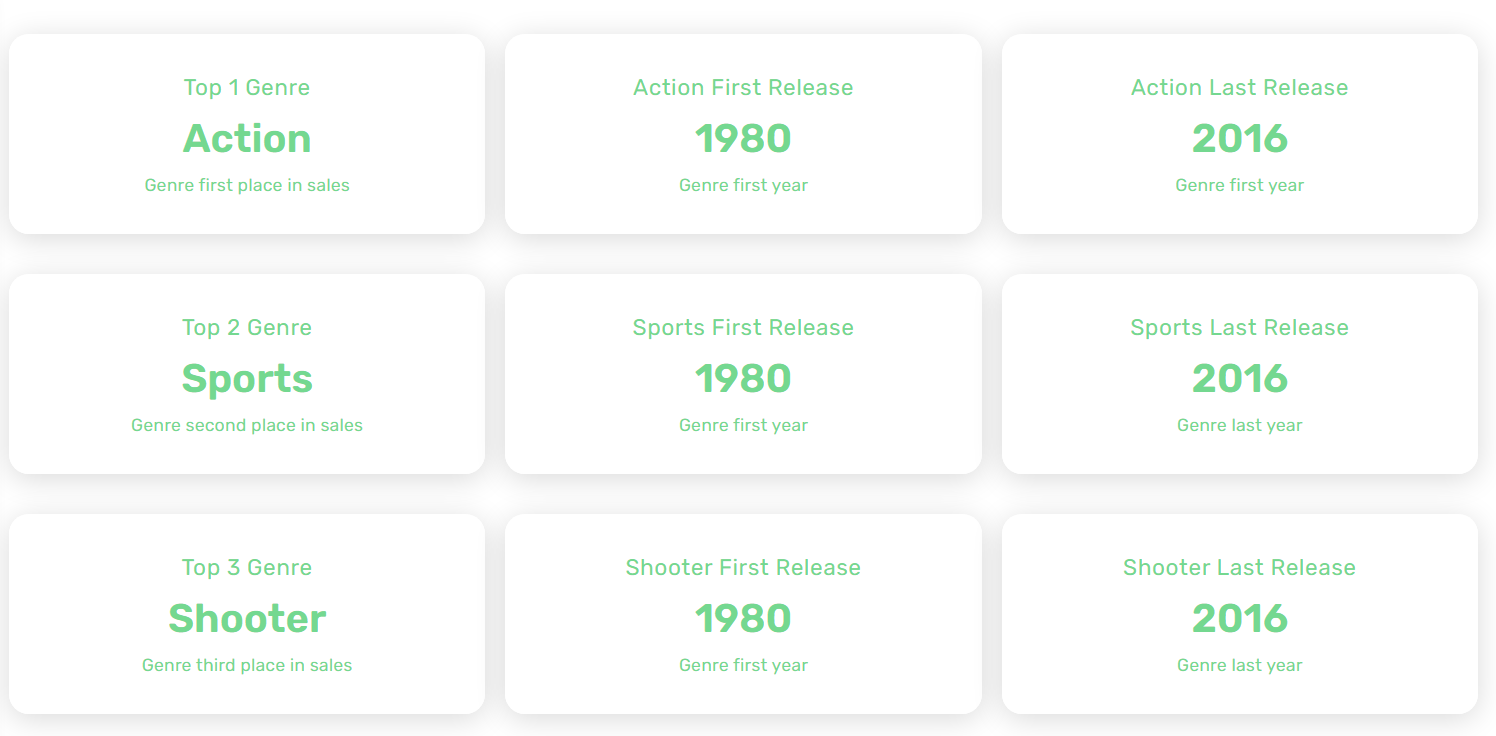
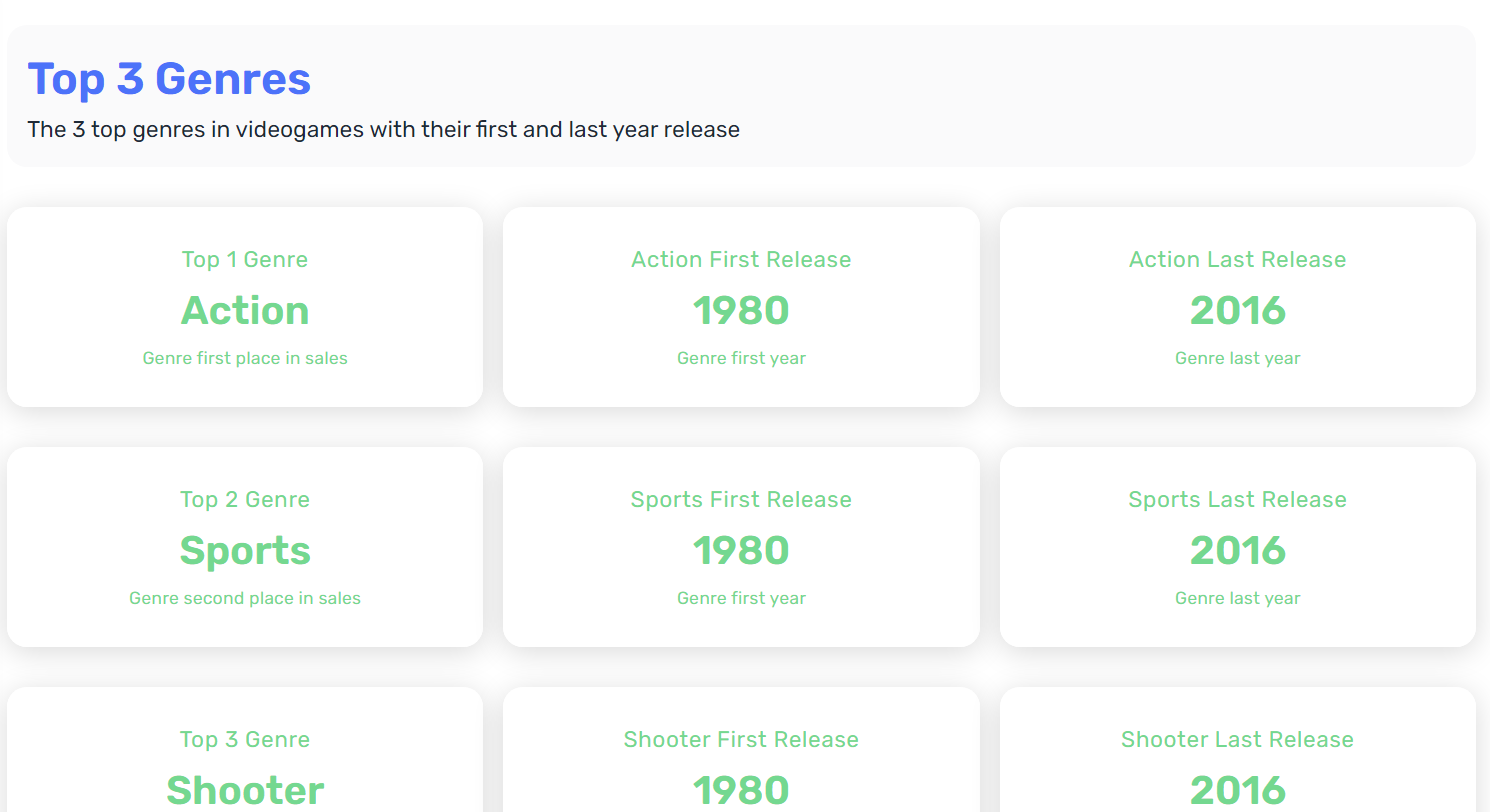
UPLOAD FILES

diff --git a/paths/top3.py b/paths/top3.py
@@ -1,18 +1,19 @@
+from typing import Any, Dict, List
+
 from utils import convert_dataframe_to_array
 from dashboard import Dashboard
 
-
 class Top3(Dashboard):
     """
-    This path is responsible for rendering the user overview page.
+    This path is responsible for rendering the Top 3 page.
     """
 
-    def __init__(self, self_board: Dashboard):
+    def __init__(self, self_board: Dashboard) -> None:
         """
-        Initializes the HiddenIndicatorsPage with a shimoku client instance.
+        Initializes the Top3 path with a shimoku client instance.
 
         Parameters:
-            shimoku: An instance of the Shimoku client.
+            self_board (Dashboard): An instance of the Dashboard class.
         """
         super().__init__(self_board.shimoku)
         self.df_app = self_board.df_app
@@ -29,14 +30,25 @@ class Top3(Dashboard):
         # Create the menu path
         self.shimoku.set_menu_path(name=self.menu_path)
 
-    def plot(self):
+    def plot(self, title: str, subtitle: str) -> bool:
         """
-        Plots the user overview page.
-        Each method is responsible for plotting a specific section of the page.
-        """
-        self.plot_kpi_indicators()
+        Plots the Top 3 page.
 
-    def plot_kpi_indicators(self):
+        Parameters:
+            title (str): The title of the page.
+            subtitle (str): The subtitle of the page.
+
+        Returns:
+            bool: True if plotting is successful.
+        """
+        self.plotHeader(title, subtitle)
+        self.plot_kpi_indicators()
+        return True
+
+    def plot_kpi_indicators(self) -> None:
+        """
+        Plots the Key Performance Indicators (KPIs) for the Top 3 page.
+        """
         self.shimoku.plt.indicator(
             data=convert_dataframe_to_array(self.df_app["main_kpis"]),
             order=self.order,
@@ -76,4 +88,19 @@ class Top3(Dashboard):
         )
         self.order += len(self.df_app3["main_kpis3"]) + 1
 
-        return True
+    def plotHeader(self, title: str, subtitle: str) -> None:
+        """
+        Plots the header of the Top 3 page.
+
+        Parameters:
+            title (str): The title of the page.
+            subtitle (str): The subtitle of the page.
+        """
+        self.shimoku.plt.html(
+            order=self.order,
+            html=self.shimoku.html_components.create_h1_title(
+                title=title,
+                subtitle=subtitle
+            )
+        )
+        self.order += 1

diff --git a/dashboard.py b/dashboard.py
@@ -51,8 +51,6 @@ class Dashboard:
 
         self.plotTop3()
 
-        #self.plotTop3("Platform")
-
     def plotHeader(self, title: str) -> None:
         """
         Plots the header of the dashboard.
@@ -249,7 +247,7 @@ class Dashboard:
             },
             {
                 "title": f"{top1} Last Release",
-                "description": f"{column} first year",
+                "description": f"{column} last year",
                 "value": top1LastRelease,
                 "color": "success",
                 "align": "center",
@@ -322,15 +320,17 @@ class Dashboard:
         self.getTop3Data('Genre')
 
         T3G = Top3(self)
-        T3G.plot()
+
+        subtitle1 = 'The 3 top genres in videogames with their first and last year release'
+        T3G.plot('Top 3 Genres', subtitle1)
 
         self.getTop3Data('Platform')
 
         T3G.df_app = self.df_app
         T3G.df_app2 = self.df_app2
         T3G.df_app3 = self.df_app3
-
-        T3G.plot()
+        subtitle2 = 'The 3 top platforms in videogames with their first and last year release'
+        T3G.plot('Top 3 Platforms', subtitle2)
 
 
         

diff --git a/utils.py b/utils.py
@@ -2,6 +2,7 @@ import os
 import pandas as pd
 from typing import Tuple
 
+
 def getData(fileNames: list) -> dict:
     """
     Get the data in DataFrames from the files in the data folder.
@@ -253,8 +254,6 @@ def getTopN(df: pd.DataFrame, column: str, n: int) -> pd.DataFrame:
     return columnSum.nlargest(n, "Global_Sales")[[column, "Global_Sales"]]
 
 
-
-
 def firstLastRelease(df: pd.DataFrame, column: str, top: str) -> Tuple[int, int]:
     """
     Finds the first and last release years for the specified item in the given column.
@@ -274,6 +273,7 @@ def firstLastRelease(df: pd.DataFrame, column: str, top: str) -> Tuple[int, int]
         "Year_of_Release"
     ].max()
     return firstDate, LastDate
+
 
 def convert_dataframe_to_array(df: pd.DataFrame) -> list:
     """Convert a DataFrame to a list of dictionaries.

diff --git a/main.py b/main.py
@@ -1,7 +1,7 @@
 from os import getenv
 from dotenv import load_dotenv
 import shimoku_api_python as Shimoku
-import dashboard
+from dashboard import Dashboard
 
 
 def main():
@@ -13,19 +13,18 @@ def main():
     universe_id: str = getenv("UNIVERSE_ID")
     workspace_id: str = getenv("WORKSPACE_ID")
 
-    #Initialize Shimoku client with the provided credentials
-    
+    # Initialize Shimoku client with the provided credentials
+
     s = Shimoku.Client(
         access_token=access_token,
         universe_id=universe_id,
     )
 
-    
     # Set the workspace for Shimoku client
     s.set_workspace(uuid=workspace_id)
 
     # Create a Dashboard object using the Shimoku client
-    dboard = dashboard.Dashboard(s)
+    dboard = Dashboard(s)
 
     # Set up and display the dashboard
     dboard.setDashboard()
